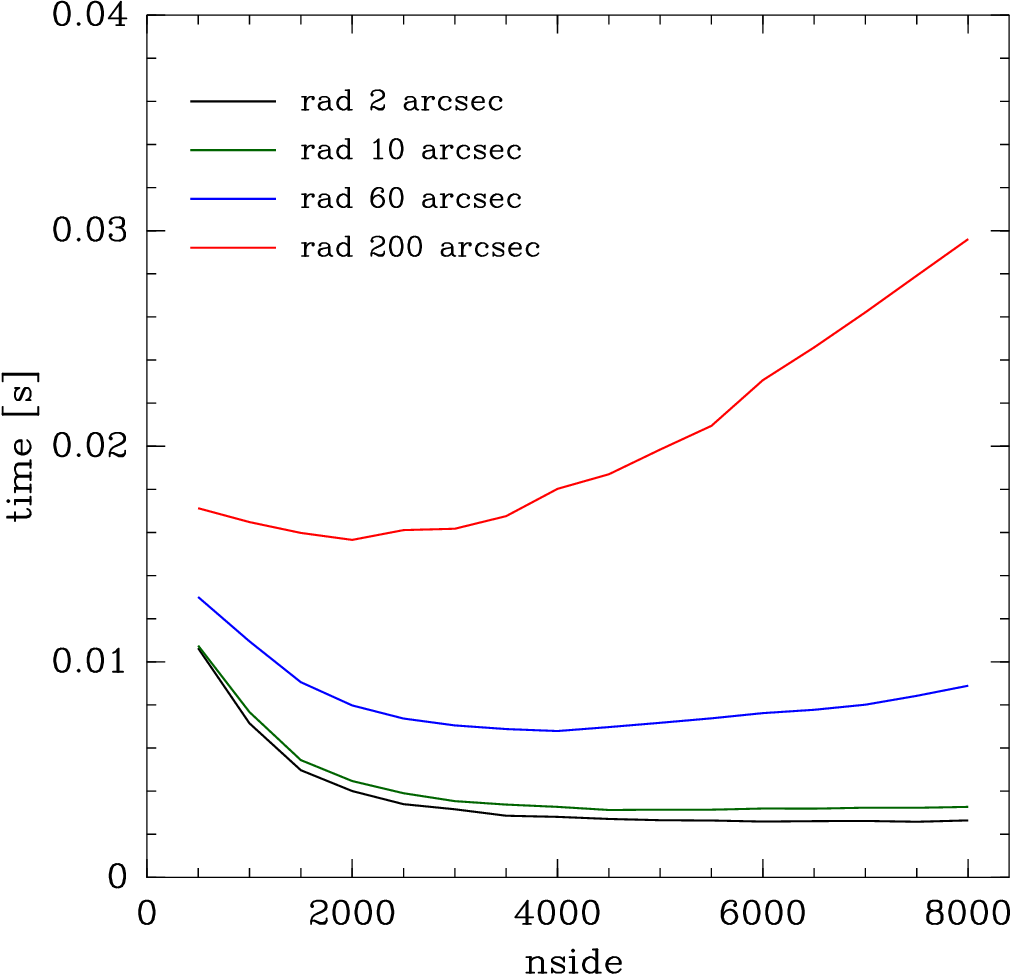
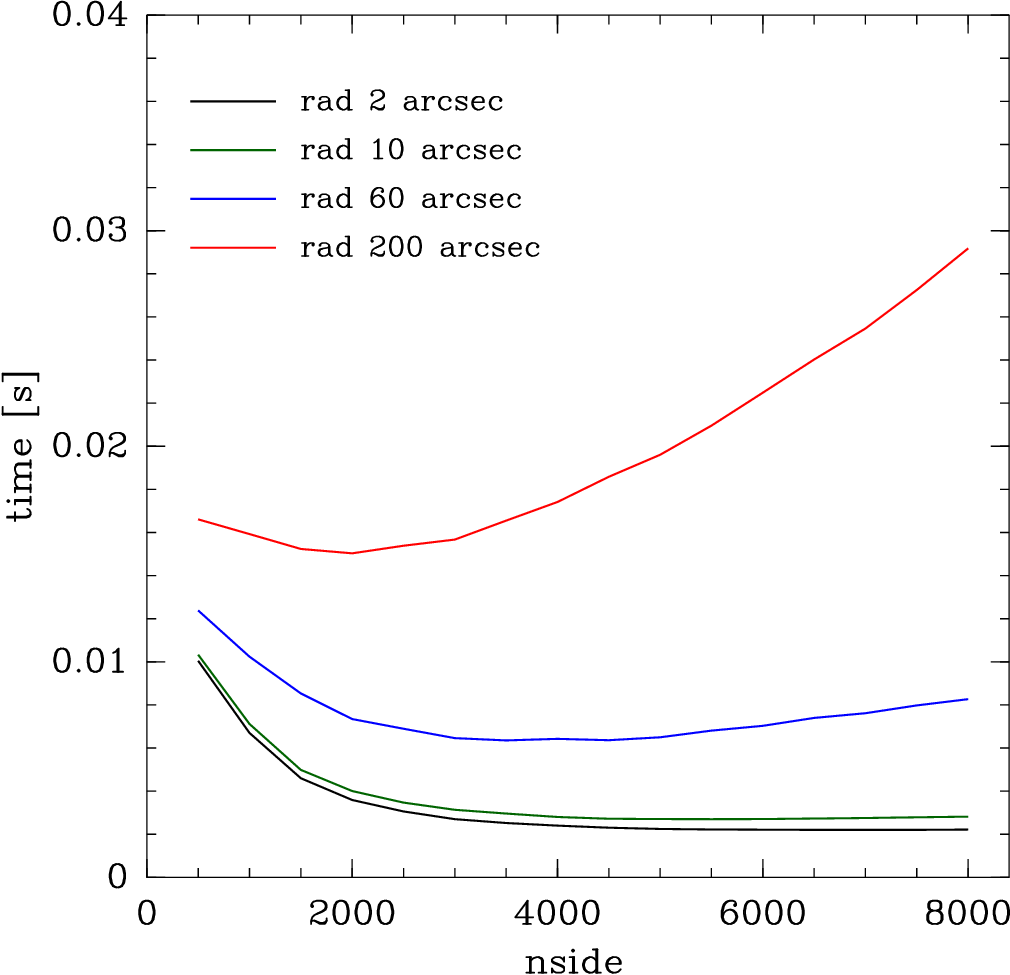
clean up makeplots, default to 200 trials, update image

diff --git a/data/makeplots.py b/data/makeplots.py
@@ -7,7 +7,7 @@ import smatch
 import time
 
 parser=argparse.ArgumentParser()
-parser.add_argument('--ntrial',type=int,default=100)
+parser.add_argument('--ntrial',type=int,default=200)
 parser.add_argument('--density-arcmin',type=float,default=30)
 parser.add_argument('--area-arcmin',type=float,default=40)
 
@@ -55,7 +55,6 @@ def main():
     np.random.seed(args.seed)
 
 
-    #nsides=[512,1024,2048,4096,8192]
     nsides=np.arange(500,8200,500)
 
     key=biggles.PlotKey(0.1, 0.9, halign='left')
@@ -64,9 +63,7 @@ def main():
         ylabel='time [s]',
         aspect_ratio=1,
         xrange=[0.0, 1.05*nsides[-1]],
-        #yrange=[0.002,0.1],
         yrange=[0.0,0.04],
-        #ylog=True,
         key=key,
     )
     radii_arcsec = [
